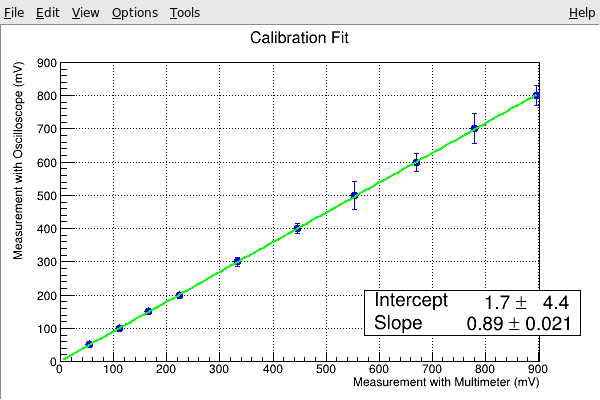
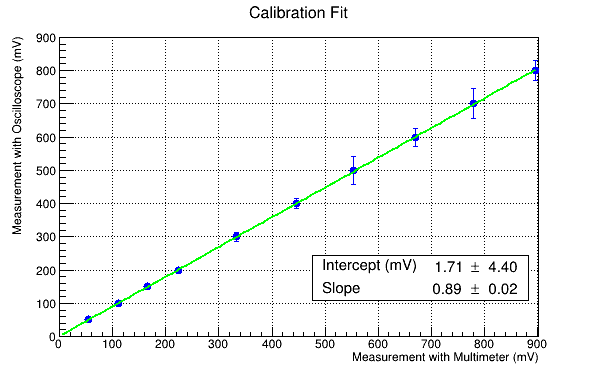
Updates to linear and calibration fit

diff --git a/prova1/lin_fit.cpp b/prova1/lin_fit.cpp
@@ -1,9 +1,11 @@
 #include <cmath>
+#include <fstream>
 #include <iostream>
 
 #include "TCanvas.h"
 #include "TF1.h"
 #include "TGraphErrors.h"
+#include "TLatex.h"
 
 Double_t linear(Double_t* x, Double_t* par) {
   Double_t xx = x[0];
@@ -12,27 +14,38 @@ Double_t linear(Double_t* x, Double_t* par) {
 }
 
 void lin_fit() {
-  // gStyle->SetOptFit(1111);
+  gStyle->SetOptFit(11);
+  gStyle->SetFitFormat("5.2f");
 
-  Double_t corr[16] = {0.01, 0.02, 0.03, 0.04, 0.05, 0.07, 0.09, 0.12,
-                       0.13, 0.17, 0.23, 0.32, 0.48, 0.70, 1.16, 1.75};
-  Double_t xx[16];
-  Double_t yy[16] = {360, 380, 400, 420, 440, 450, 460, 470,
-                     480, 490, 500, 520, 540, 560, 580, 600};
   Double_t ex[16] = {0, 0, 0, 0, 0, 0, 0, 0, 0, 0, 0, 0, 0, 0, 0};
-  Double_t ey[16] = {15, 15, 16, 16, 24, 17, 17, 17,
-                     25, 18, 18, 25, 43, 26, 44, 27};
+  Double_t current[16];
+  Double_t yy[16];
+  Double_t ey[16];
+  std::ifstream myfile;
+  myfile.open("lin_Si.txt");
+  double a;
+  int j = 0;
+  while (myfile >> a) {
+    if ((j % 3) == 0) {
+      current[j / 3] = a;
+    } else if ((j % 3) == 1) {
+      yy[j / 3] = a;
+    } else {
+      ey[j / 3] = a;
+    }
+    ++j;
+  }
+  myfile.close();
 
+  Double_t xx[16];
   for (int i = 0; i < 16; ++i) {
-    xx[i] = log(corr[i]);
+    xx[i] = log(current[i]);
   }
 
   Double_t xx_[16];
-  Double_t yy_[16];
   Double_t ex_[16];
-  Double_t ey_[16];
   for (int i = 0; i < 16; ++i) {
-    xx_[i] = log(1000 * corr[i]);
+    xx_[i] = log(1000 * current[i]);
     ex_[i] = 1000 * ex[i];
   }
 
@@ -45,14 +58,13 @@ void lin_fit() {
   // gr1->SetFillStyle(3010);
   gr1->GetXaxis()->SetTitle("ln(I) (mA)");
   gr1->GetYaxis()->SetTitle("V (mV)");
-  // gr1->GetXaxis()->SetLimits(0., 900.);
-  // gr1->GetYaxis()->SetLimits(0., 900.);
 
   TF1* f1 = new TF1("f1", linear, -5, 1, 2);
   gr1->Fit("f1", "EX0, Q");
   TF1* fit1 = gr1->GetFunction("f1");
   fit1->SetLineColor(kGreen);
   fit1->SetLineWidth(2);
+  fit1->SetParNames("-#etaV_{T}lnI_{0}", "#eta V_{T}");
 
   double chi_square = fit1->GetChisquare() / fit1->GetNDF();
   double intercept = fit1->GetParameter(0);
@@ -71,7 +83,7 @@ void lin_fit() {
   gr2->SetLineColor(kBlue);
   // gr2->SetFillColor(kGreen);
   // gr2->SetFillStyle(3010);
-  gr2->GetXaxis()->SetTitle("ln(I) (uA)");
+  gr2->GetXaxis()->SetTitle("ln(I) (#muA)");
   gr2->GetYaxis()->SetTitle("V (mV)");
 
   TF1* f2 = new TF1("f2", linear, 2, 8, 2);
@@ -79,6 +91,7 @@ void lin_fit() {
   TF1* fit2 = gr2->GetFunction("f2");
   fit2->SetLineColor(kGreen);
   fit2->SetLineWidth(2);
+  fit2->SetParNames("-#etaV_{T}lnI_{0}", "#eta V_{T}");
 
   chi_square = fit2->GetChisquare() / fit2->GetNDF();
   intercept = fit2->GetParameter(0);

diff --git a/prova1/calibration.cpp b/prova1/calibration.cpp
@@ -12,10 +12,11 @@ Double_t linear(Double_t* x, Double_t* par) {
 
 void calibration() {
    gStyle->SetOptFit(11);
-   gStyle->SetFitFormat("5.2g");
+   gStyle->SetFitFormat("5.2f");
 
   TGraphErrors* graph = new TGraphErrors("calibration.txt", "%lg %lg %lg", "");
   graph->SetTitle("Calibration Fit");
+  graph->SetMarkerSize(1);
   graph->SetMarkerStyle(kFullCircle);
   graph->SetMarkerColor(kBlue);
   graph->SetLineColor(kBlue);
@@ -30,7 +31,7 @@ void calibration() {
   TF1* fit = graph->GetFunction("f1");
   fit->SetLineColor(kGreen);
   fit->SetLineWidth(2);
-  fit->SetParNames("Intercept", "Slope");
+  fit->SetParNames("Intercept (mV)", "Slope");
 
   double chi_square = fit->GetChisquare() / fit->GetNDF();
   double intercept = fit->GetParameter(0);
